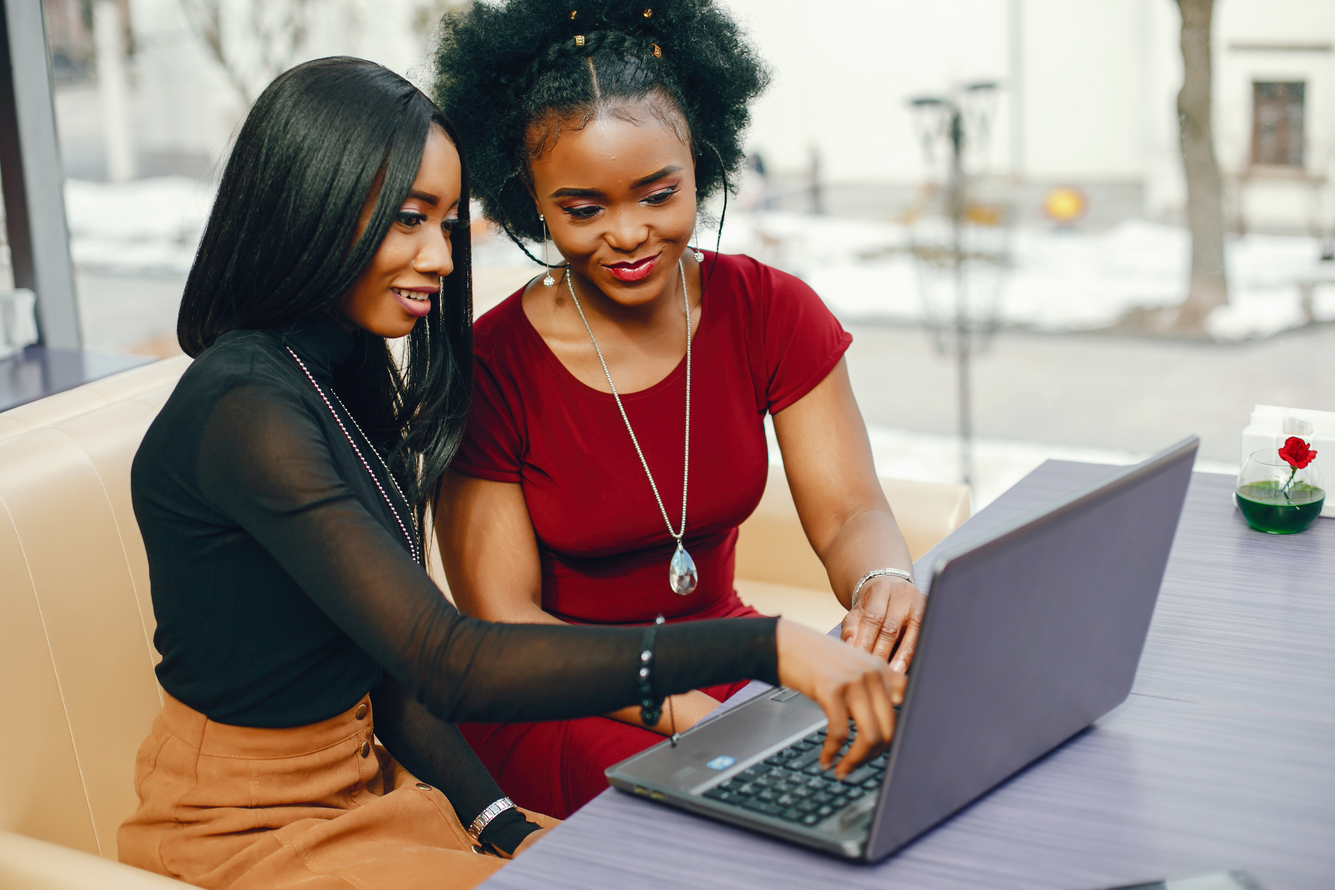
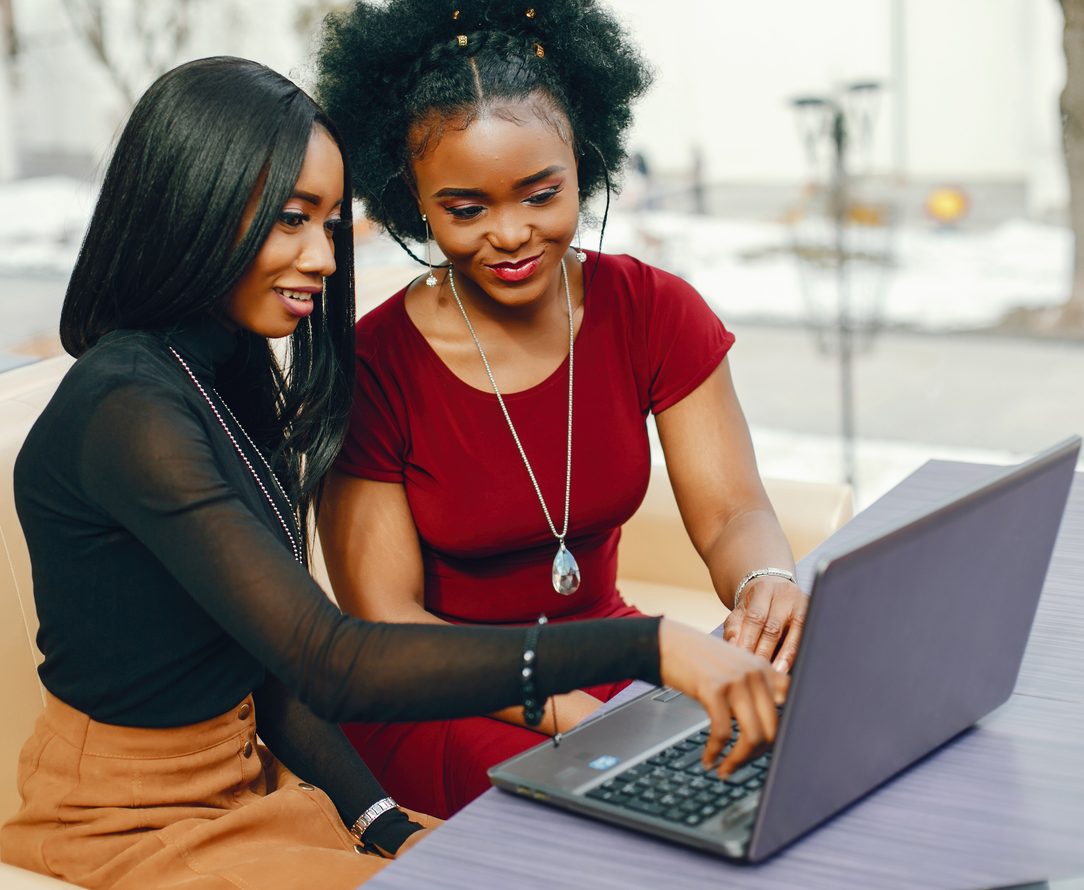
minor_changes

diff --git a/src/components/features/Grids.js b/src/components/features/Grids.js
@@ -44,7 +44,7 @@ const Grids = () => {
     <Container component="section" maxWidth="lg" className={classes.root}>
       <Grid container spacing={2} alignItems="stretch">
         <Grid item xs={12} sm={6}>
-        <img src={image} height={688} width={840} />
+          <img src={image} height={702} width={840} />
         </Grid>
         <Grid item xs={12} sm={6}>
           <section id="features">
@@ -52,24 +52,27 @@ const Grids = () => {
               <div className="title" data-aos="fade-up">
                 <BsFillBookmarkStarFill color="#fff" size={30} />
                 <div>
-                <h2 style={{ color: '#fff;'}} >Corporate Stakeholder Manager</h2>
+                  <h2 style={{ color: '#fff' }} >Corporate Stakeholder Manager</h2>
                 </div>
                 <Typography variant="h5" component="h3" className={classes.title}>
-                  Description
+                  Description:
                 </Typography>
                 <div>
-                <p className="u-text-small">
-                  <b>Purpose of the Job:</b> To lead, co-ordinate and manage both internal and external corporate communications and stakeholder relations initiatives towards positioning the Umgeni Water brand as a leading water utility in the industry and broader society. To facilitate and initiate stakeholder engagements for the purpose of consolidating and establishing new relationships.<br/> <b>Minimum Qualifications:</b> Matric with Bachelor's Degree (NQF 7) in Journalism or Communications or Public Relations / Administration Management. Post graduate qualification in publishing, communication and design will be an added advantage. Minimum Experience: Minimum of 8 years' experience of which 5 years in a senior corporate or public sector stakeholder / communications, journalism role. (This level of skill and experience are required. Anything under 8 years may not be adequate).
-                </p>
+                  <p className="u-text-small">
+                    <b>Purpose of the Job:</b> To lead, co-ordinate and manage both internal and external corporate communications and stakeholder relations initiatives towards positioning the Umgeni Water brand as a leading water utility in the industry and broader society. To facilitate and initiate stakeholder engagements for the purpose of consolidating and establishing new relationships.<br />
+                  </p>
+                  <p className="u-text-small">
+                    <br/><b>Minimum Qualifications:</b> Matric with Bachelor's Degree (NQF 7) in Journalism or Communications or Public Relations / Administration Management. Post graduate qualification in publishing, communication and design will be an added advantage. Minimum Experience: Minimum of 8 years' experience of which 5 years in a senior corporate or public sector stakeholder / communications, journalism role. (This level of skill and experience are required. Anything under 8 years may not be adequate).
+                  </p>
                 </div>
               </div>
               <button btnClass={"btn-light"} onClick={btnClick.bind(this)} >
                 Apply Now
               </button>
             </div>
-        </section>
+          </section>
+        </Grid>
       </Grid>
-    </Grid>
     </Container >
   );
 };

diff --git a/src/components/footer/Footer.js b/src/components/footer/Footer.js
@@ -41,7 +41,7 @@ const Footer = () => {
               <FaPhoneAlt /> &nbsp; : +27 11 438 4300
             </p>
             <p>
-              <FaEnvelope /> &nbsp; : zoliswa@tafadzwa.co.za
+              <FaEnvelope /> &nbsp; : reception@tafadzwa.co.za
             </p>
             <p>
               <FaGlobe /> &nbsp; : www.tafadzwa.co.za
@@ -50,7 +50,7 @@ const Footer = () => {
         </div>
         <div className="footer-box">
           <img src={logo} alt="logo" href="href=https://tafadzwa-app.vercel.app/#" />
-          <p className="u-text-small">&copy; Copyright 2022. <a href="href=http://www.webparam.co.za/">Webparam</a></p>
+          <p className="u-text-small">&copy; Copyright 2022. <a href="http://www.webparam.co.za/">Webparam</a></p>
         </div>
       </div>
     </section>

diff --git a/src/App.js b/src/App.js
@@ -23,8 +23,8 @@ import {
 
 function App() {
   return (
-    <>
-      <header className="header-bg">
+    <div style={{width: '100%', position: "relative"}}>
+      <header  style={{width: "calc(100vw + 20%)!important"}} className="header-bg">
         <Navbar />
         <Header />
       </header>
@@ -32,7 +32,7 @@ function App() {
       <Grids data-aos="fade-up"/>
       <Faq />
       <Footer />
-    </>
+    </div>
   );
 }
 

diff --git a/src/components/faq/Faq.js b/src/components/faq/Faq.js
@@ -23,7 +23,7 @@ const Faq = () => {
           <p className="u-text-small">
           Fax: +27 86 535 8624
           </p>
-          Email: zoliswa@tafadzwa.co.za
+          Email: reception@tafadzwa.co.za
           <p className="u-text-small">
           </p>
           <div className="u-title" data-aos="fade-up">

diff --git a/src/App.css b/src/App.css
@@ -7,3 +7,17 @@
   min-height: 100vh;
   background: #f8fafa;
 }
+
+/* .makeStyles-root-1 {
+ padding: 0px 0px !important; 
+}
+
+.MuiContainer-root {
+  width: 100%;
+  display: block;
+  box-sizing: border-box;
+  margin-left: auto;
+  margin-right: auto;
+  /* padding-left: 16px; 
+  padding-right: 16px; 
+}*/
